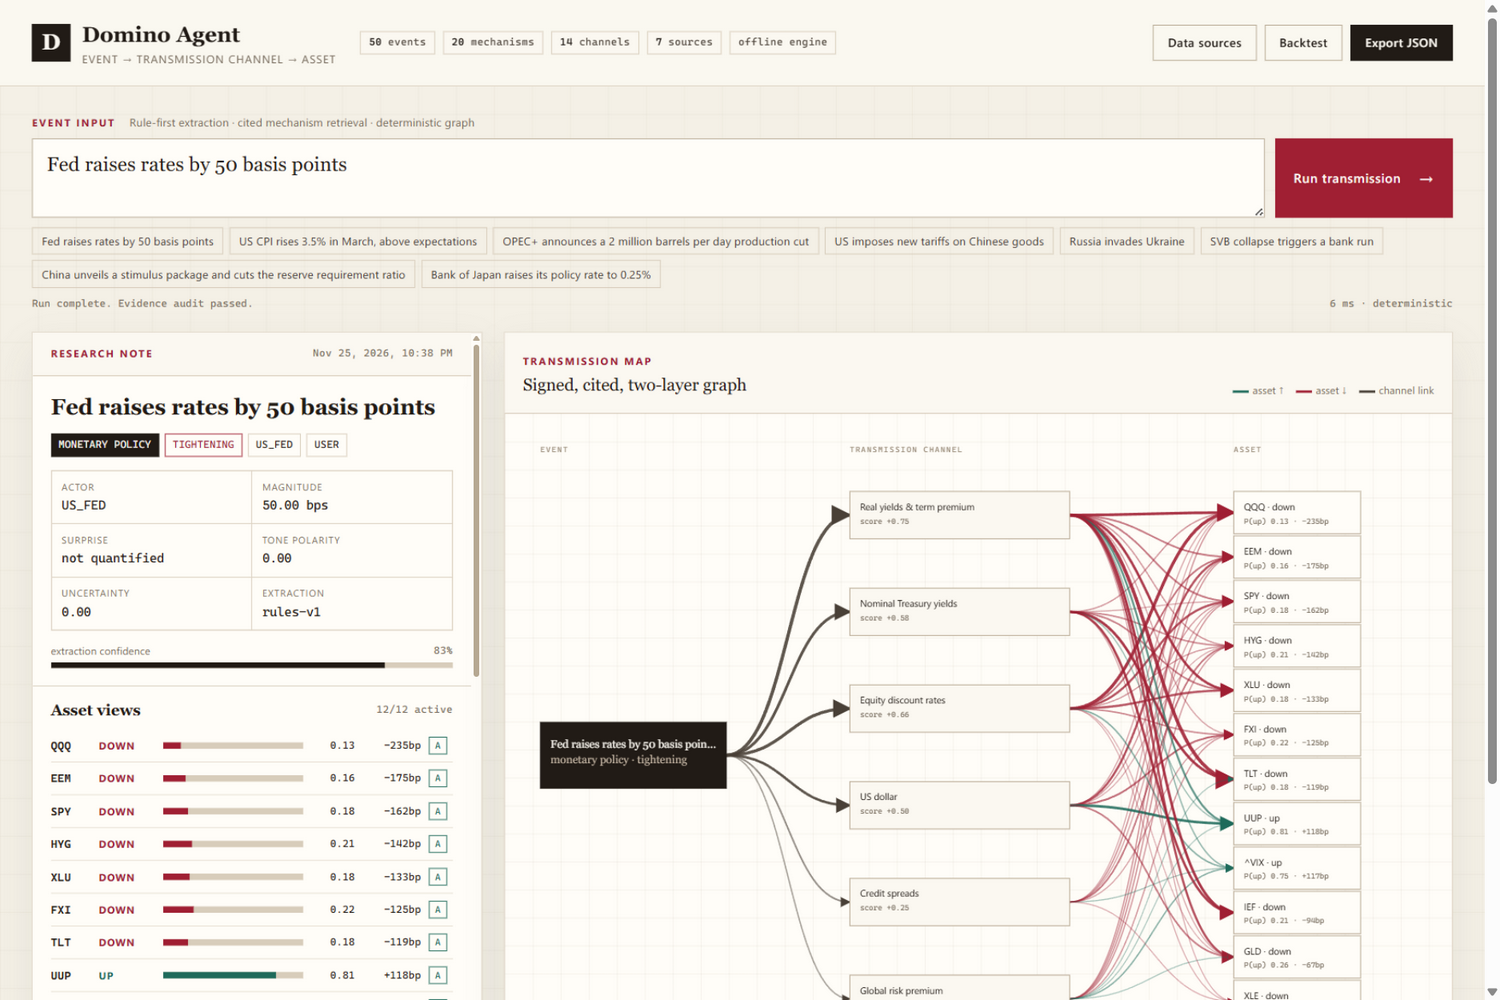
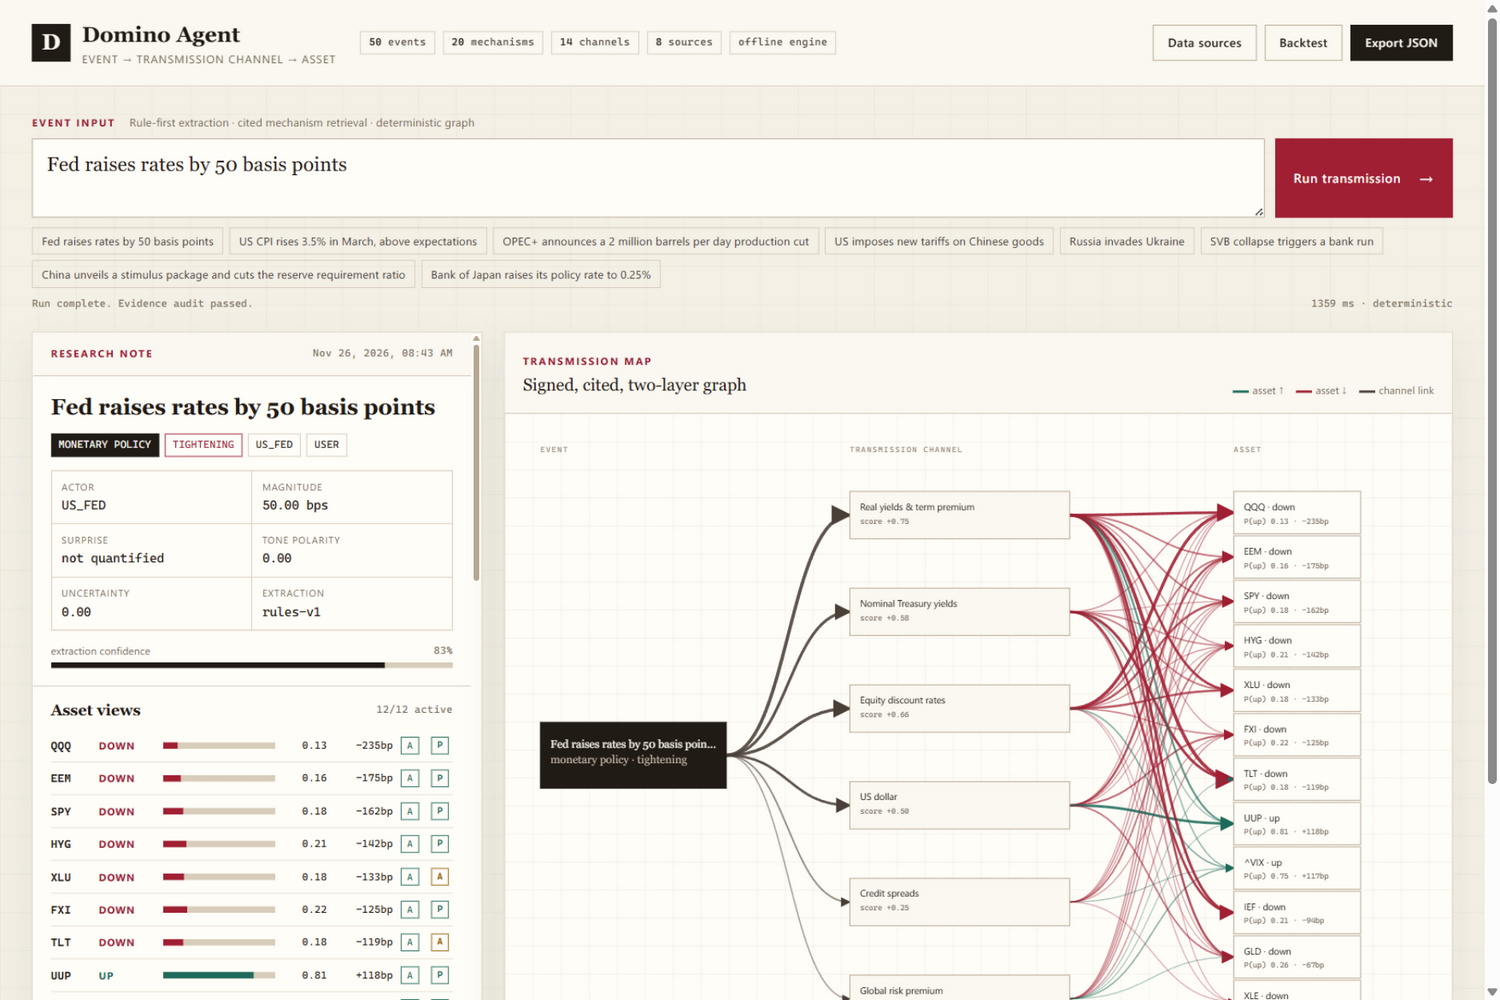
feat(ui): surface point-in-time audit and label E6 arms

Changed region(s): [[0.1533, 0.744, 0.3067, 0.992], [0.3067, 0.589, 0.3373, 0.682]]

diff --git a/frontend/app.js b/frontend/app.js
@@ -10,6 +10,22 @@ const state = {
   edges: [],
 };
 
+const MODEL_LABELS = {
+  always_up_test: "Always-up base rate",
+  coin_flip_test: "Coin flip",
+  mechanism_test: "Mechanism only",
+  analog_test: "Historical analog only",
+  hybrid_test: "Hybrid (mechanism + analog)",
+  stacked_test: "Stacked",
+  mechanism_calibrated_test: "Mechanism + Platt",
+  analog_calibrated_test: "Analog + Platt",
+  hybrid_calibrated_test: "Hybrid + Platt",
+  stacked_calibrated_test: "Stacked + Platt",
+  symbolic_test: "Symbolic only (E6)",
+  symbolic_gated_test: "Symbolic gated (E6)",
+  symbolic_blend_test: "Symbolic blend (E6)",
+};
+
 const EXAMPLES = [
   "Fed raises rates by 50 basis points",
   "US CPI rises 3.5% in March, above expectations",
@@ -583,7 +599,7 @@ function renderBacktest(data) {
       const ci = metric.accuracy_ci ? `[${fmt(metric.accuracy_ci[0], 2)}, ${fmt(metric.accuracy_ci[1], 2)}]` : "—";
       return `
         <tr class="${highlight}">
-          <td>${escapeHtml(metric.model)}</td>
+          <td>${escapeHtml(MODEL_LABELS[metric.model] || metric.model)}</td>
           <td class="num">${metric.n}</td>
           <td class="num">${fmt(metric.coverage, 3)}</td>
           <td class="num">${fmt(metric.accuracy, 3)}</td>
@@ -610,6 +626,7 @@ function renderBacktest(data) {
     .join("");
   $("#backtestBody").innerHTML = `
     <p class="hint" style="margin:0 0 12px">Benchmark: <strong>${escapeHtml(data.config.dataset)}</strong>. All model metrics below are on the held-out second half of the event sample. Stack weights and Platt calibration are fitted on the first half only. Dataset <em>fomc</em> is a stress test of action-only policy events; it is expected to expose the cost of the mechanism prior.</p>
+    <div id="pitBody" class="pit"></div>
     <div class="metric-grid">
       ${metricCard("Events", data.n_events, `${data.n_outcome_observations} outcome obs`)}
       ${metricCard("Window", `0..${data.config.window_end}`, "trading days")}
@@ -640,6 +657,29 @@ function renderBacktest(data) {
       <ul>${(data.notes || []).map((note) => `<li>${escapeHtml(note)}</li>`).join("")}</ul>
     </div>
   `;
+  loadPointInTime(data.config.dataset);
+}
+
+async function loadPointInTime(dataset) {
+  const el = $("#pitBody");
+  if (!el) return;
+  el.innerHTML = `<div class="placeholder">Checking point-in-time contract…</div>`;
+  try {
+    const audit = await fetchJSON(`/api/point-in-time?dataset=${encodeURIComponent(dataset)}`);
+    const revised = (audit.revised_sources || []).join(", ") || "none";
+    const cls = audit.verdict === "point_in_time" ? "pass" : "warn";
+    el.innerHTML = `
+      <div class="pit-card ${cls}">
+        <div>
+          <strong>Point-in-time: ${escapeHtml(audit.verdict.replaceAll("_", " "))}</strong>
+          <span>LLM-free metric path · ${escapeHtml(String(audit.n_events))} events</span>
+        </div>
+        <div class="pit-detail">Revised / ex-post inputs: ${escapeHtml(revised)}</div>
+      </div>
+    `;
+  } catch (error) {
+    el.innerHTML = `<div class="empty-state">Point-in-time audit unavailable: ${escapeHtml(error.message)}</div>`;
+  }
 }
 
 function renderCalibration(bins) {

diff --git a/frontend/styles.css b/frontend/styles.css
@@ -972,6 +972,48 @@ select {
   padding: 20px;
 }
 
+.pit {
+  margin-bottom: 14px;
+}
+
+.pit-card {
+  display: flex;
+  align-items: baseline;
+  justify-content: space-between;
+  gap: 16px;
+  padding: 10px 12px;
+  border: 1px solid var(--line);
+  background: var(--amber-soft);
+  font-size: 12px;
+}
+
+.pit-card.pass {
+  background: var(--teal-soft);
+}
+
+.pit-card.warn {
+  background: var(--amber-soft);
+}
+
+.pit-card strong {
+  display: inline-block;
+  margin-right: 8px;
+  font-size: 10px;
+  letter-spacing: 0.08em;
+  text-transform: uppercase;
+}
+
+.pit-card span {
+  color: var(--muted);
+}
+
+.pit-detail {
+  color: var(--ink-2);
+  font-family: var(--mono);
+  font-size: 11px;
+  text-align: right;
+}
+
 .metric-grid {
   display: grid;
   grid-template-columns: repeat(4, minmax(0, 1fr));
@@ -1153,6 +1195,15 @@ tr.highlight td {
 
   .metric-grid {
     grid-template-columns: repeat(2, minmax(0, 1fr));
+  }
+
+  .pit-card {
+    flex-direction: column;
+    gap: 4px;
+  }
+
+  .pit-detail {
+    text-align: left;
   }
 
   .asset-row {

diff --git a/frontend/index.html b/frontend/index.html
@@ -8,7 +8,7 @@
       name="description"
       content="Auditable event-driven macro transmission: extraction, cited mechanisms, deterministic channels and event-study calibration."
     />
-    <link rel="stylesheet" href="/styles.css" />
+    <link rel="stylesheet" href="/styles.css?v=0.6.0" />
   </head>
   <body>
     <header class="topbar">
@@ -167,6 +167,6 @@
       </div>
     </div>
 
-    <script src="/app.js" defer></script>
+    <script src="/app.js?v=0.6.0" defer></script>
   </body>
 </html>

diff --git a/docs/model_card.md b/docs/model_card.md
@@ -1,4 +1,4 @@
-# Model card: Domino Agent v0.5
+# Model card: Domino Agent v0.6
 
 ## Model summary
 
